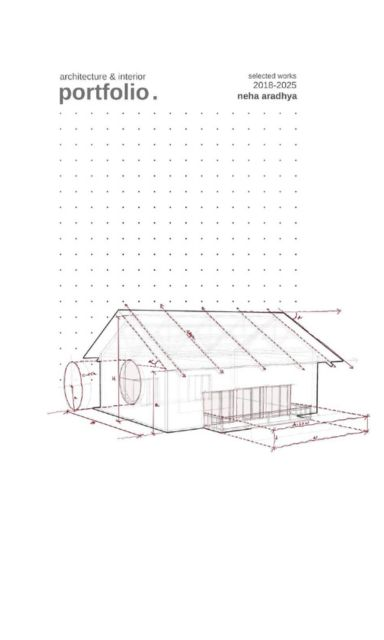
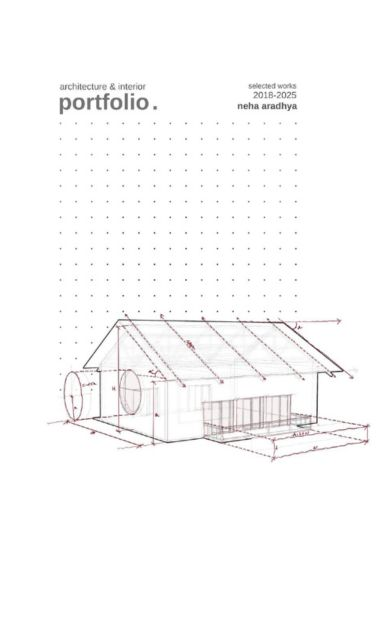
improved design. added //. font change

diff --git a/app/page.tsx b/app/page.tsx
@@ -5,13 +5,13 @@ import { Carousel, Card } from "@/components/ui/apple-cards-carousel";
 import { ContactCard as ContactCard } from "@/components/ui/contact-card";
 import Image from "next/image";
 
-export default function AppleCardsCarouselDemo() {
+export default function NehaHomePage() {
 	const cards = data.map((card, index) => (
 		<Card key={card.src} card={card} index={index} />
 	));
 
 	return (
-		<div className="w-full py-20">
+		<div className="w-full py-20" data-nosnippet>
 			<div className="max-w-7xl pl-4 mx-auto flex">
 				<Image
 					src={"/neha.png"}
@@ -31,10 +31,10 @@ export default function AppleCardsCarouselDemo() {
 				<div>
 					<h2 className="pl-8 max-md:pl-4 mx-auto text-5xl max-md:text-3xl font-bold text-neutral-800 dark:text-neutral-200 font-sans">
 						{/* <TextGenerateEffect words="Neha Aradhya"/> */}
-						Neha Aradhya
+						neha aradhya
 					</h2>
-					<h3 className="pl-8 max-md:pl-4 my-4 max-md:my-2 mx-auto text-3xl leading-4 max-md:text-lg font-semibold text-neutral-500 dark:text-neutral-500 font-sans">
-						Architect | Interior Designer
+					<h3 className="pl-8 max-md:pl-4 my-4 max-md:my-2 mx-auto text-3xl leading-4 max-md:text-lg font-semibold text-neutral-500 dark:text-neutral-400 font-sans">
+						Architect // Interior Designer
 					</h3>
 				</div>
 			</div>
@@ -73,7 +73,7 @@ const data = [
 				scrolling="no"
 				className="fp-iframe"
 				style={{ border: "0px", width: "100%", height: "55vh" }}
-				src="https://heyzine.com/flip-book/46c037e875.html"
+				src="https://heyzine.com/flip-book/cebc3688c0.html"
 				onLoad={() => setLoading(false)}
 			></iframe>
 		),

diff --git a/app/layout.tsx b/app/layout.tsx
@@ -1,34 +1,41 @@
 import type { Metadata } from "next";
-import { Geist, Geist_Mono } from "next/font/google";
+import { Arimo, Poppins, Geist_Mono } from "next/font/google";
 import "./globals.css";
 
-const geistSans = Geist({
-  variable: "--font-geist-sans",
-  subsets: ["latin"],
+const geistSans = Arimo({
+	variable: "--font-arimo-sans",
+	subsets: ["latin"],
 });
 
 const geistMono = Geist_Mono({
-  variable: "--font-geist-mono",
-  subsets: ["latin"],
+	variable: "--font-geist-mono",
+	subsets: ["latin"],
+});
+
+const poppins = Poppins({
+	variable: "--font-poppins-sans",
+	subsets: ["latin"],
+	weight: "300",
 });
 
 export const metadata: Metadata = {
-  title: "Neha Aradhya",
-  description: "Architect and Interior Designer",
+	title: "neha aradhya",
+	description:
+		"Official website of Neha Aradhya. Licensed Architect and Interior Designer from India 🇮🇳.",
 };
 
 export default function RootLayout({
-  children,
+	children,
 }: Readonly<{
-  children: React.ReactNode;
+	children: React.ReactNode;
 }>) {
-  return (
-    <html lang="en">
-      <body
-        className={`${geistSans.variable} ${geistMono.variable} antialiased`}
-      >
-        {children}
-      </body>
-    </html>
-  );
+	return (
+		<html lang="en">
+			<body
+				className={`${geistSans.variable} ${geistMono.variable} ${poppins.variable} antialiased`}
+			>
+				{children}
+			</body>
+		</html>
+	);
 }

diff --git a/components/ui/apple-cards-carousel.tsx b/components/ui/apple-cards-carousel.tsx
@@ -237,7 +237,7 @@ export const Card = ({
 										? `category-${card.title}`
 										: undefined
 								}
-								className="text-base font-bold text-black dark:text-white"
+								className="text-base font-bold text-black dark:text-white font-(family-name:--font-poppins-sans)"
 							>
 								{card.category}
 							</motion.p>
@@ -272,7 +272,7 @@ export const Card = ({
 						layoutId={
 							layout ? `category-${card.category}` : undefined
 						}
-						className="text-white text-sm md:text-base font-medium font-sans text-left"
+						className="text-white text-sm md:text-base font-bold text-left font-(family-name:--font-poppins-sans)"
 					>
 						{card.category}
 					</motion.p>
@@ -285,9 +285,9 @@ export const Card = ({
 				</div>
 				<BlurImage
 					src={isMobile ? card.src_mobile : card.src}
-					alt={card.title}
+					alt={card.category}
 					fill
-					className="object-cover absolute z-10 inset-0"
+					className="object-cover absolute z-10 inset-0 font-(family-name:--font-poppins-sans)"
 					style={{ right: 0 }}
 				/>
 			</motion.button>

diff --git a/components/ui/contact-card.tsx b/components/ui/contact-card.tsx
@@ -3,7 +3,7 @@ import { cn } from "@/lib/utils";
 
 export function ContactCard() {
 	return (
-		<Card>
+		<Card className="font-(family-name:--font-poppins-sans)">
 			<CardSkeletonContainer showGradient={false}>
 				<Skeleton />
 			</CardSkeletonContainer>
@@ -36,7 +36,7 @@ const Skeleton = () => {
 							fill="currentColor"
 						/>
 					</svg>
-					linkedin.com/in/neha-aradhya
+					linkedin/neha-aradhya
 				</a>
 				<a
 					href="mailto:aradhyaneha@gmail.com"

diff --git a/app/globals.css b/app/globals.css
@@ -8,7 +8,7 @@
 @theme inline {
   --color-background: var(--background);
   --color-foreground: var(--foreground);
-  --font-sans: var(--font-geist-sans);
+  --font-sans: var(--font-arimo-sans);
   --font-mono: var(--font-geist-mono);
 }
 
